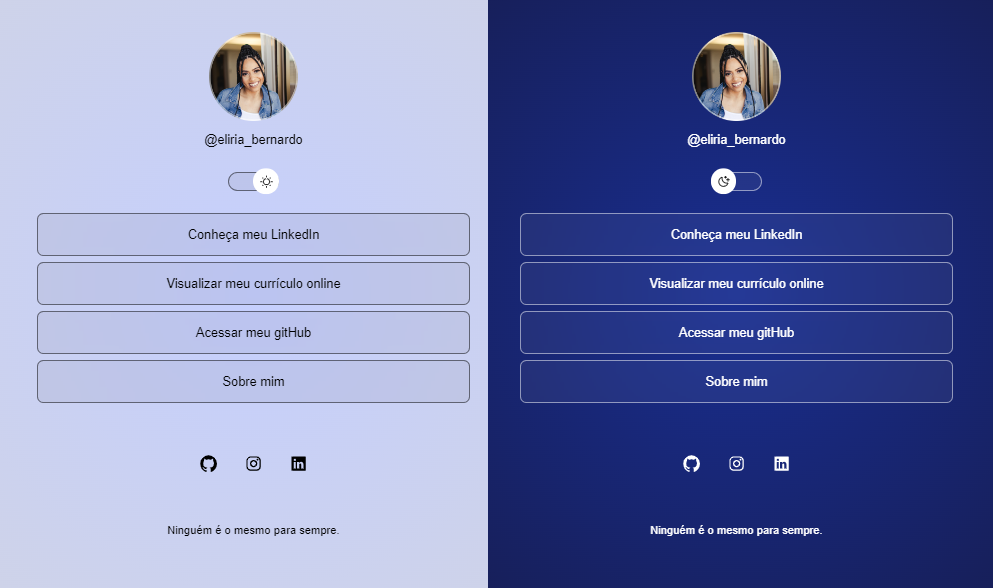
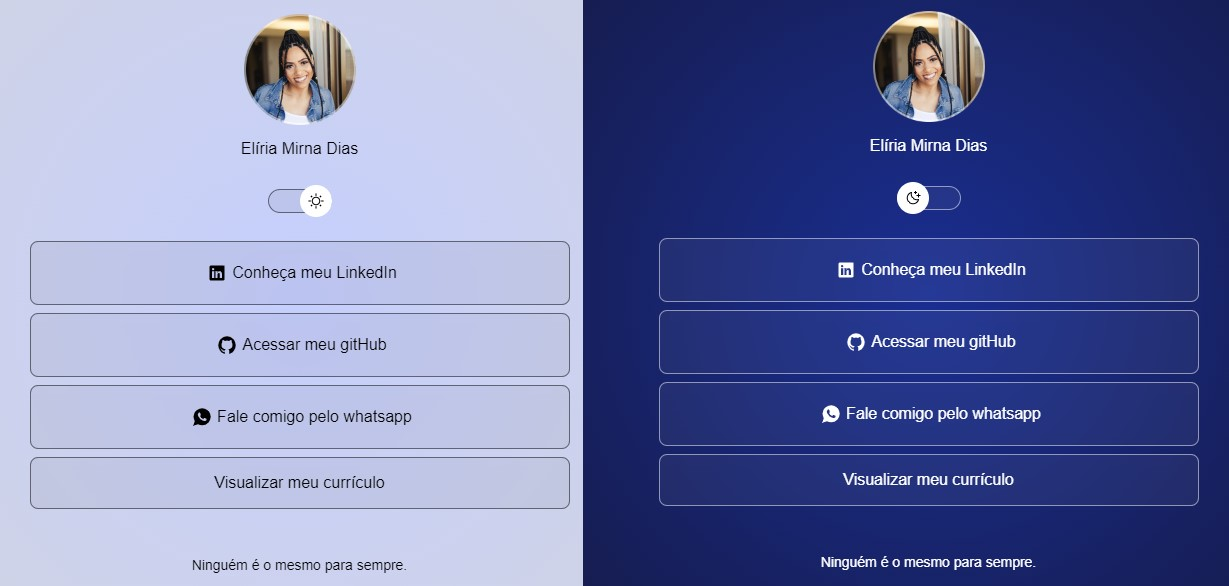
change layout

diff --git a/index.html b/index.html
@@ -14,7 +14,7 @@
     <div id="profile">
       <img src="./assets/avatar.png" alt="foto de Elíria usndo tranças jaqueta jeans sorrindo com uma mão no queixo">
 
-      <p>@eliria_bernardo</p>
+      <p>Elíria Mirna Dias</p>
     </div>
 
     <div id="switch" onclick="toggleMode()">
@@ -24,30 +24,32 @@
 
     <ul>
       <li>
-        <a href="https://www.linkedin.com/in/eliriamirna/" target="_blank">Conheça meu LinkedIn</a>
+        <a href="https://www.linkedin.com/in/eliriamirna/" target="_blank">
+          <ion-icon name="logo-linkedin" class="icon"></ion-icon>
+          Conheça meu LinkedIn
+        </a>
+
       </li>
       <li>
-        <a href="https://eliriamirna.github.io/presentation-links/pdf-files/curriculo-eliria.pdf">Visualizar meu
-          currículo online</a>
+        <a href="https://github.com/eliriamirna?tab=repositories" target="_blank">
+          <ion-icon name="logo-github" class="icon"></ion-icon>
+          Acessar meu gitHub
+        </a>
+
       </li>
       <li>
-        <a href="https://github.com/eliriamirna?tab=repositories" target="_blank">Acessar meu gitHub</a>
+        <a href="https://wa.me/5561920008309" target="_blank">
+          <ion-icon name="logo-whatsapp" class="icon"></ion-icon>
+          Fale comigo pelo whatsapp
+        </a>
+
       </li>
       <li>
-        <a href="#">Sobre mim</a>
+        <a href="https://eliriamirna.github.io/presentation-links/pdf-files/curriculo-eliria.pdf" target="_blank">
+          Visualizar meu currículo
+        </a>
       </li>
     </ul>
-    <div id="social-links">
-      <a href="https://github.com/eliriamirna?tab=repositories" target="_blank">
-        <ion-icon name="logo-github"></ion-icon>
-      </a>
-      <a href="https://www.instagram.com/eliria_bernardo/" target="_blank">
-        <ion-icon name="logo-instagram"></ion-icon>
-      </a>
-      <a href="https://www.linkedin.com/in/eliriamirna/" target="_blank">
-        <ion-icon name="logo-linkedin"></ion-icon>
-      </a>
-    </div>
 
     <footer>
       Ninguém é o mesmo para sempre.

diff --git a/styles.css b/styles.css
@@ -137,32 +137,14 @@ ul li a {
   transition: background 0.2s;
 }
 
+.icon {
+  margin: 5px;
+  font-size: 20px;
+}
+
 ul li a:hover {
   background: var(--surface-color-hover);
   border: 1.5px solid var(--text-color);
-}
-
-#social-links {
-  display: flex;
-  justify-content: center;
-  padding: 24px 0;
-  font-size: 24px;
-}
-
-#social-links a {
-  display: flex;
-  align-items: center;
-  justify-content: center;
-  padding: 16px;
-
-  transition: background 0.2s;
-  border-radius: 50%;
-}
-
-#social-links a:hover {
-  background: var(--highlight-color);
-  padding: 16px;
-  border-radius: 50%;
 }
 
 footer {
